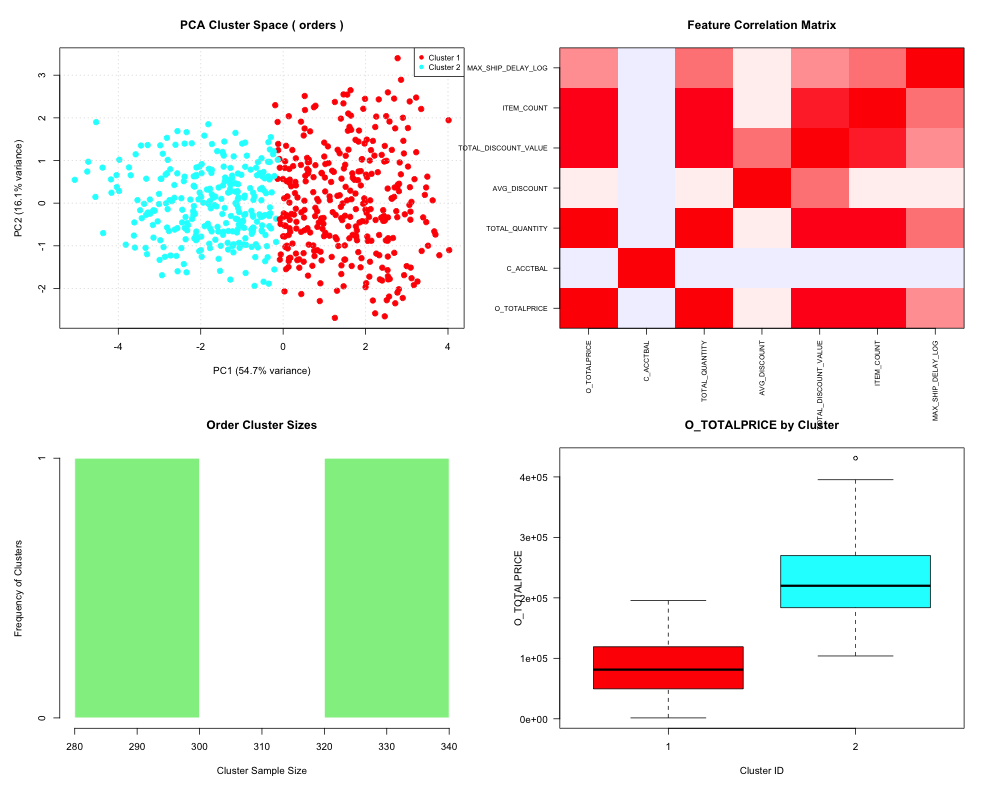
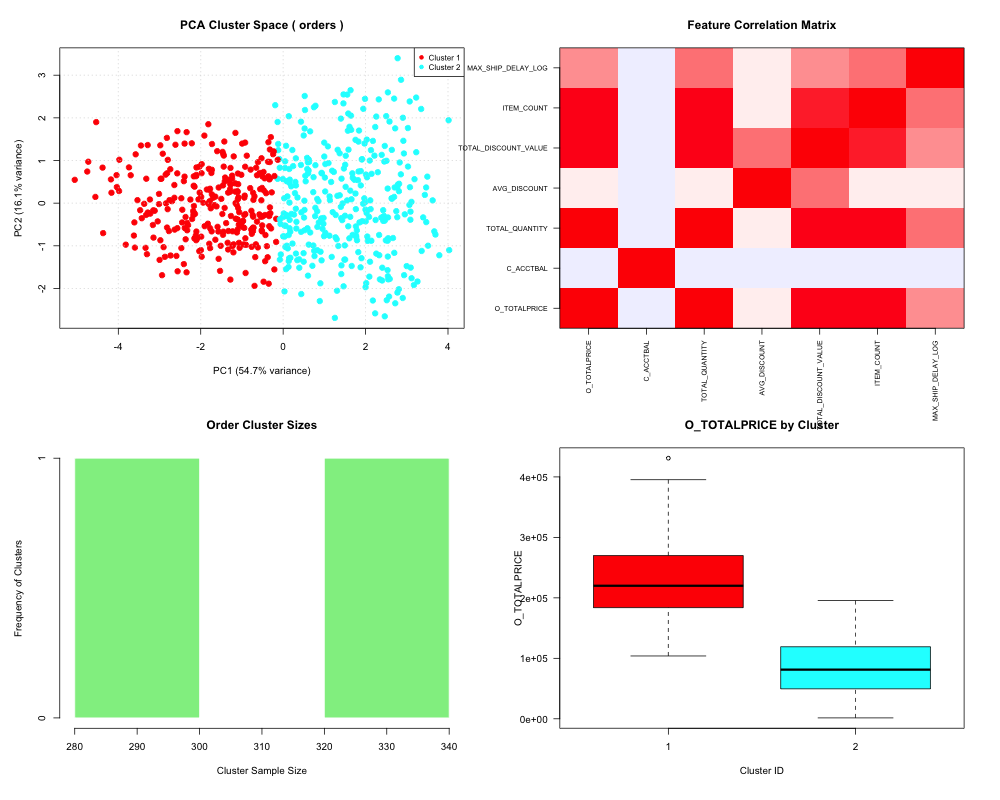
Use LOAD_SAMPLE_SIZE configuration constant in loading and report abstract

diff --git a/gen/customer_orders_nominal_audit_report.md b/gen/customer_orders_nominal_audit_report.md
@@ -1,6 +1,6 @@
 # SQL Data Quality and Behavior Analysis Lab Report: customer_orders_nominal
 
-**Report Generated on:** 2026-07-23 09:03:44.68437
+**Report Generated on:** 2026-07-23 09:06:38.885301
 **Source Dataset:** `customer_orders_nominal.csv`
 **Auditor Classification Status:** CRITICAL ANOMALY DETECTED 🔴
 
@@ -159,8 +159,8 @@ We standardized the numeric metrics and fitted a [K-Means clustering algorithm](
 
 | Persona Cluster | Order Count | Percentage (%) |
 |---|---|---|
-| **Cluster 1** | 331 | 53.56% |
-| **Cluster 2** | 287 | 46.44% |
+| **Cluster 1** | 287 | 46.44% |
+| **Cluster 2** | 331 | 53.56% |
 
 
 #### Population Profiles (Cluster Feature Means)
@@ -168,8 +168,8 @@ To characterize the discovered customer order personas in terms of the original 
 
 | Cluster | O_TOTALPRICE | C_ACCTBAL | TOTAL_QUANTITY | AVG_DISCOUNT | TOTAL_DISCOUNT_VALUE | ITEM_COUNT | MAX_SHIP_DELAY_LOG |
 |---|---|---|---|---|---|---|---|
-| **Cluster 1** | 84001.63 | 4779.32 | 56.68 | 0.05 | 3926.69 | 2.48 | 3.03 |
-| **Cluster 2** | 230128.95 | 4277.64 | 155.00 | 0.05 | 12067.62 | 5.79 | 3.29 |
+| **Cluster 1** | 230128.95 | 4277.64 | 155.00 | 0.05 | 12067.62 | 5.79 | 3.29 |
+| **Cluster 2** | 84001.63 | 4779.32 | 56.68 | 0.05 | 3926.69 | 2.48 | 3.03 |
 
 
 ## 4. Exploratory Multivariate Analysis and Cluster Diagnostics

diff --git a/gen/arbres-publics_audit_report.md b/gen/arbres-publics_audit_report.md
@@ -1,6 +1,6 @@
 # SQL Data Quality and Behavior Analysis Lab Report: arbres-publics
 
-**Report Generated on:** 2026-07-23 09:03:57.363277
+**Report Generated on:** 2026-07-23 09:06:51.499916
 **Source Dataset:** `arbres-publics.csv`
 **Auditor Classification Status:** MINOR ANOMALY DETECTED 🟡
 
